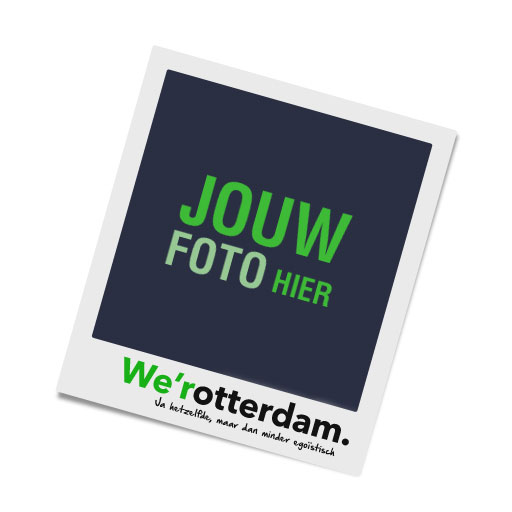
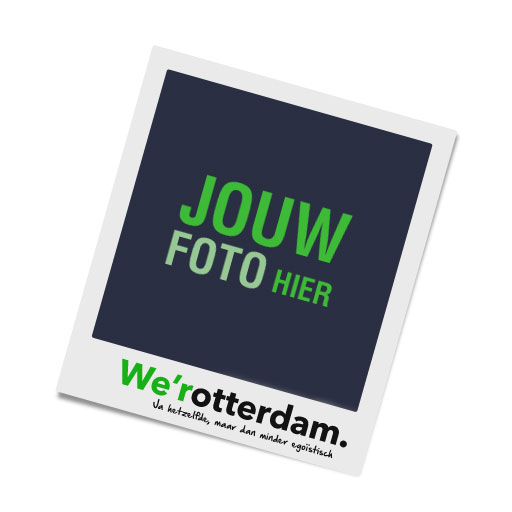
Changed: Shoppingcart product-sizes , polaroid
Added size to the products in the shoppingcart.
Adjusted the logo on the polaroid a little bit down for better reading.

Changed region(s): [[0.2188, 0.6875, 0.6875, 0.9062]]

diff --git a/public/css/main.css b/public/css/main.css
@@ -290,6 +290,16 @@ footer .category{
 .product-line{
     margin: 10px 0px;
     padding:0px;
+}
+.product-line .product-options span {
+    display: inline-block;
+    background: rgb(234, 234, 234);
+    padding: 0px 6px;
+    font-weight: bold;
+    border: 1px solid rgb(223, 223, 223);
+    color: #12AF0D;
+}
+.product-options {
 
 }
 .product:hover{

diff --git a/resources/views/shoppingcart/shoppingcart.blade.php b/resources/views/shoppingcart/shoppingcart.blade.php
@@ -45,6 +45,7 @@
                                 </div>
                                 <div class="info">
                                     <div class="product-title">{{$cartitem->name}}</div>
+                                    <div class="product-options">Maat: <span>{{$cartitem->options->size}}</span></div>
                                     <div class="product-description"></div>
                                 </div>
                             </div>
